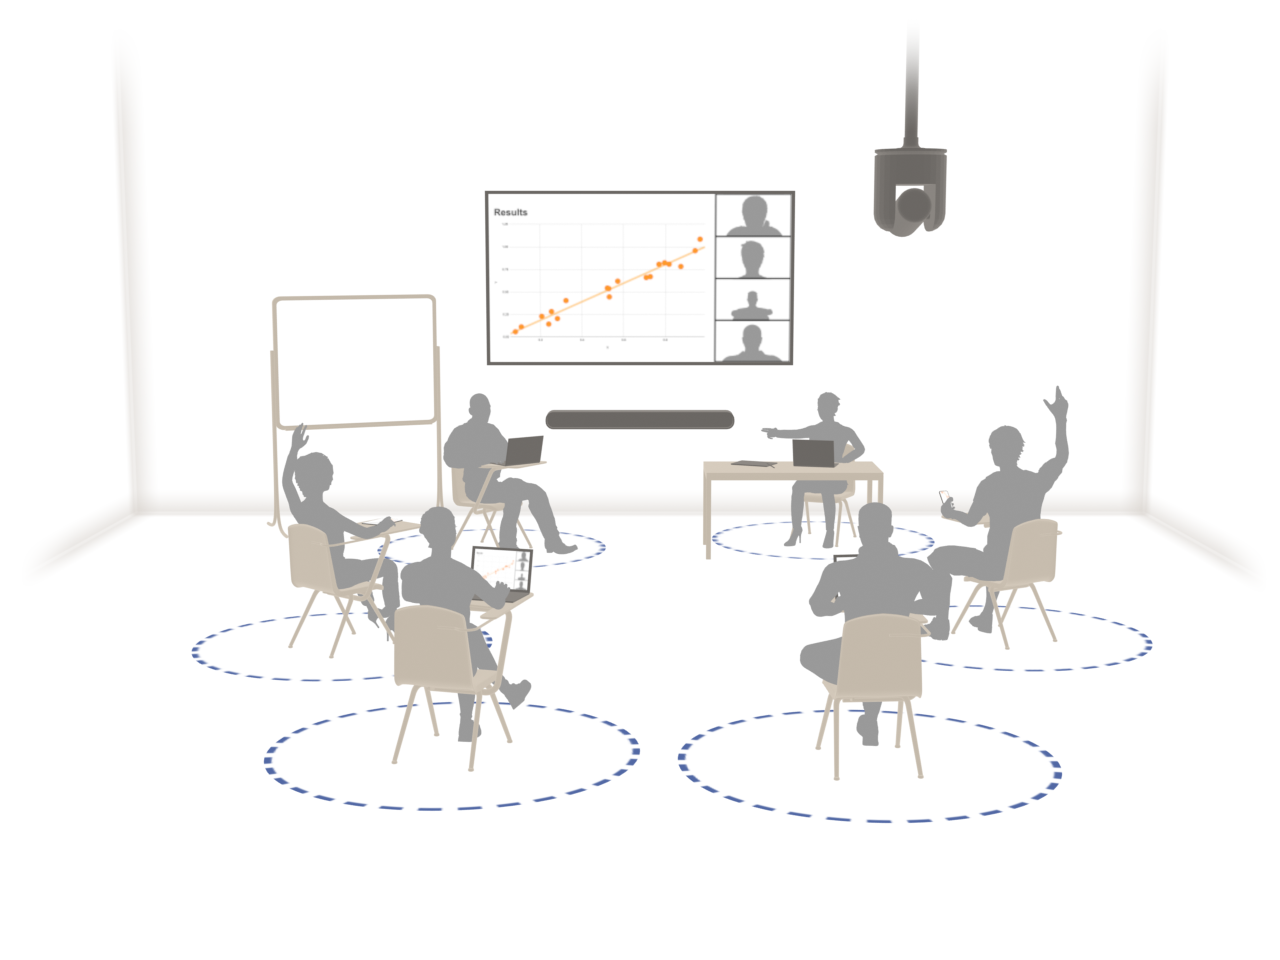
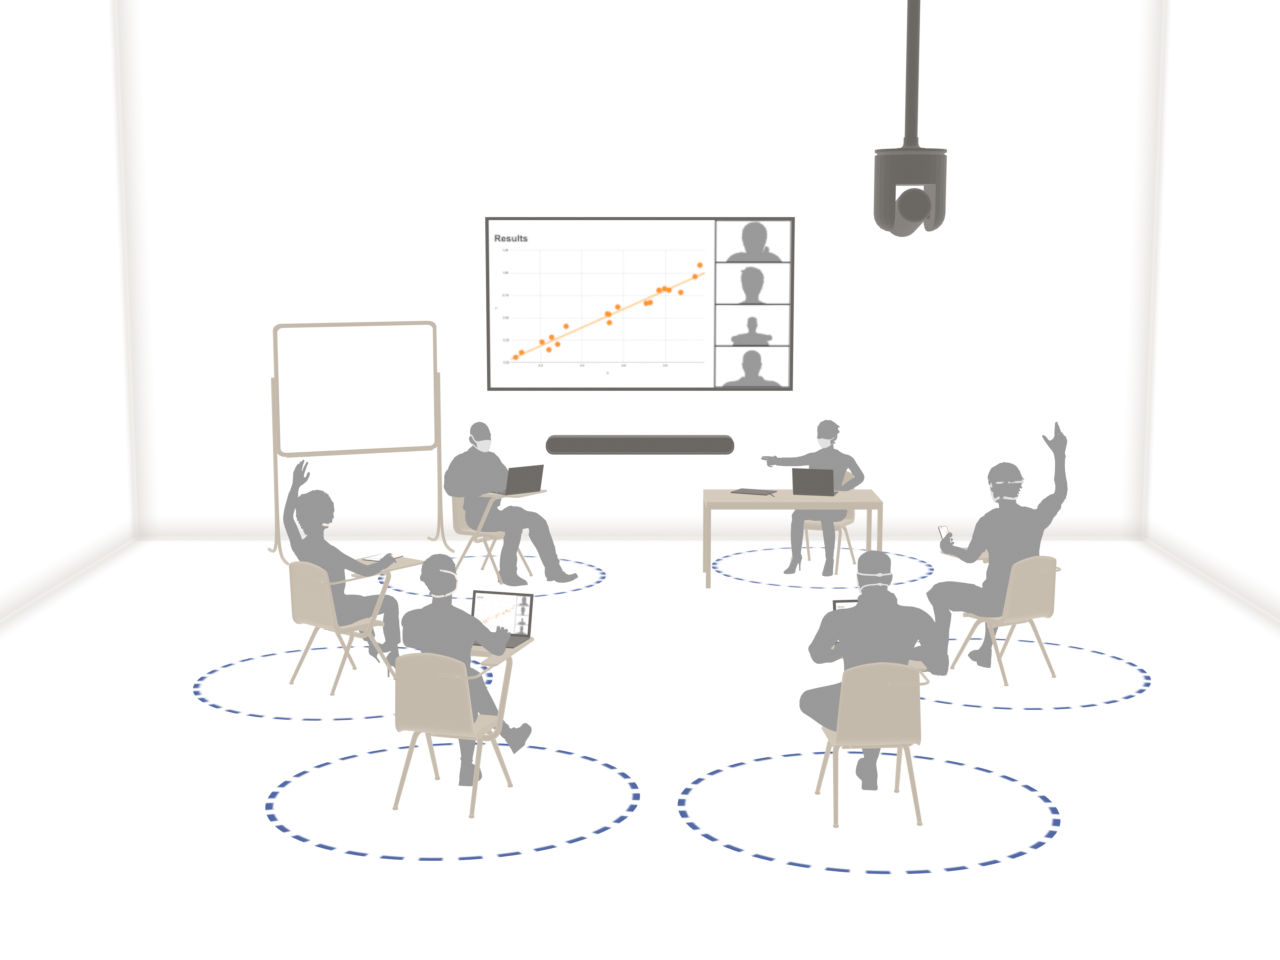
Update image with masks, raise camera angle slightly.

diff --git a/index.html b/index.html
@@ -95,42 +95,42 @@
 
         <image width="1280" height="960" xlink:href="images/HybridClassroom-0001.png" />
 
-        <g transform="translate(638,420)">
+        <g transform="translate(638,445)">
           <a id="circle-1" xlink:href="hlm-highlight-1">
             <circle class="hlm-circle" cx="0" cy="0" r="20" /></a>
         </g>
-        <g transform="translate(355,361)">
+        <g transform="translate(355,390)">
           <a id="circle-2" xlink:href="hlm-highlight-2">
             <circle class="hlm-circle" cx="0" cy="0" r="20" />
           </a>
         </g>
-        <g transform="translate(756,463)">
+        <g transform="translate(756,490)">
           <a id="circle-3" xlink:href="hlm-highlight-2">
             <circle class="hlm-circle" cx="0" cy="0" r="20" />
           </a>
         </g>
-        <g transform="translate(752,278)">
+        <g transform="translate(752,305)">
           <a id="circle-4" xlink:href="hlm-highlight-3">
             <circle class="hlm-circle" cx="0" cy="0" r="20" />
           </a>
         </g>
-        <g transform="translate(500,568)">
+        <g transform="translate(500,615)">
           <a id="circle-5" xlink:href="hlm-highlight-4">
             <circle class="hlm-circle" cx="0" cy="0" r="20" />
           </a>
         </g>
-        <g transform="translate(917,177)">
+        <g transform="translate(917,200)">
           <a id="circle-6" xlink:href="hlm-highlight-5">
             <circle class="hlm-circle" cx="0" cy="0" r="20" />
           </a>
         </g>
-        <g transform="translate(473,427)">
+        <g transform="translate(473,455)">
           <a id="circle-7" xlink:href="hlm-highlight-6">
             <circle class="hlm-circle" cx="0" cy="0" r="20" />
           </a>
         </g>
 
-        <g transform="translate(689,775)">
+        <g transform="translate(689,810)">
           <a id="circle-8" xlink:href="hlm-highlight-7">
             <circle class="hlm-circle" cx="0" cy="0" r="20" />
           </a>
